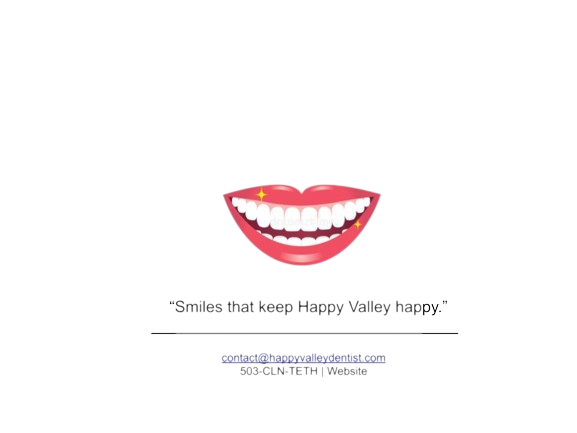
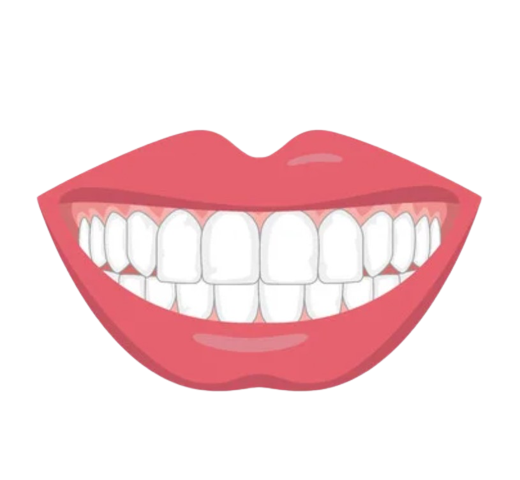
Week 6

Changed region(s): [[0.0615, 0.2702, 0.9231, 0.8707]]

diff --git a/chamber/index.html b/chamber/index.html
@@ -13,7 +13,7 @@
 </head>
 <body>
     <header>
-        <img id="logo" src="images/logo3.png" alt="Chamber of Commerce Logo">
+        <img id="logo" src="images/logo3.webp" alt="Chamber of Commerce Logo">
         <nav class="navigation">
             <a class="ham" href="#">&#9776;</a>
             <a href="#">Home</a>
@@ -30,9 +30,14 @@
     </div>
 
     <div id="hero">
-        <img id="welcome" src="images/welcome.jpg" alt="Image of Happy Valley">
+        <img id="welcome" src="images/welcome.jpg" alt="Image of Happy Valley"
+            srcset="images/size/small.jpg 800w, 
+                    images/size/medium.jpg 1000w, 
+                    images/size/Large.jpg 1200w"
+            sizes="(max-width: 800px), (min-width: 800px) and (max-width: 1200px) 800px, 1200px">
         <button id="joinbtn">Join the Chamber</button>
     </div>
+    
 
     <div id="event">
         <h4>Grand Opening</br>Backyard Bird Shop</p></h4>
@@ -41,7 +46,10 @@
 
     <div id="weather">
         <p>Weather</p>
-        <img id="weatherlogo" src="images/weatherr.png" alt="Weather">
+        <h3 class="temp"><span class='t'>35</span>&#176;F</h3>
+        <img id="weatherlogo" src="images/weather.png" alt="Weather">
+        <p>Wind speed: <span class="ws">10</span>mph</p>
+        <p>Wind chill: <span id="wc"></span></p>
     </div>
 
     <div id="news-release">
@@ -53,6 +61,8 @@
         <div id="spotlight1">
             <p>Spotlight 1</p>
             <img id="teeth" src="images/cleanteeth.png" alt="Happy Valley Dentist">
+            <p>"Smiles that keep Happy Valley Happy"</p>
+            <p>contact@happyvallysmiles.com | 503-123-1234</p>
         </div>
         <div id="spotlight2">
             <p>Spotlight2</p>
@@ -74,7 +84,7 @@
 
     <footer>
         <div class="footer-left">
-          <img id="footerlogo" src="images/logo3.png" alt="Happy Valley Commerce Logo" width="250px">
+          <img id="footerlogo" src="images/logo3.webp" alt="Happy Valley Commerce Logo" width="250px">
           <h4>Happy Valley Chamber of Commere <br>1234 SE 123 Ave <br>Happy Valley, OR 97015</h4>
         </div>
         <div class="footer-right">

diff --git a/chamber/chamber.css b/chamber/chamber.css
@@ -1,12 +1,18 @@
 /* Hamburger menu or responsive menu */
+
+a:hover {
+    background-color: #687482;
+}
 #welcome {
     width: 100%;
     max-height: 250px;
+    content: url(images/size/small.jpg)
 }
 
 #weatherlogo {
-    margin-top: -130px;
-    margin-left: 30px;
+    margin-left:100px;
+    margin-top: -50px;
+    width:150px;
 }
 
 #joinbtn {
@@ -25,10 +31,10 @@
 }
 
 #teeth {
-    margin-top:-150px;
+    margin-top: -50px;
     float:center;
-    margin-left:50px;
-    max-width: 400px;
+    margin-left:120px;
+    max-width: 150px;
 }
 
 #chinese {
@@ -239,6 +245,11 @@ div {
         grid-row: 2/3;
         grid-column: 1 /6;
     }
+
+    #welcome {
+        content:url(images/size/medium.jpg)
+    }
+
       
 
     
@@ -337,6 +348,7 @@ div {
     #welcome {
         width: 100%;
         min-height: 540px;
+        content: url(images/size/Large.jpg)
     }
 
     #joinbtn {

diff --git a/lesson6/index.html b/lesson6/index.html
@@ -1,0 +1,24 @@
+<!DOCTYPE html>
+<html lang="en">
+<head>
+    <meta charset="UTF-8">
+    <meta http-equiv="X-UA-Compatible" content="IE=edge">
+    <meta name="viewport" content="width=device-width, initial-scale=1.0">
+    <title>Document</title>
+</head>
+<body>
+    <div class="parts" id="weather">
+        <h3>Weather</h3>
+        <div id="w-box">
+            <img class="icon">
+            <h3 class="temp"><span class='t'>20</span>&#176;F</h3>
+        </div>
+        <p class="desc">Partly Cloudy</p>
+        <hr>
+        <p>Wind Speed: <span class="ws">5</span>mph</p>
+        <p>Wind Chill: <span id="wc"></span></p>
+    </div>
+
+</body>
+<script src="practice6.js"></script>
+</html>

diff --git a/chamber/chamber.js b/chamber/chamber.js
@@ -32,3 +32,14 @@ if (realDayofWeek === 1 || realDayofWeek === 2) {
 } else {
     banner.style.display = "none";
 }
+
+const temp = parseInt(document.querySelector('.t').textContent);
+const windspeed = parseInt(document.querySelector('.ws').textContent);
+
+const chill = Math.round((35.74 + (0.6215 * temp))-(35.75 * Math.pow(windspeed,0.16)) + (0.4275*temp*Math.pow(windspeed,0.16)));
+
+if (temp <= 50 && windspeed >= 3) {
+    document.getElementById('wc').textContent = chill + '°F';
+} else {
+    document.getElementById('wc').textContent = "N/A";
+}

diff --git a/practice/week4practice.html b/practice/week4practice.html
@@ -8,7 +8,7 @@
     <link href="week4practice.css" rel="stylesheet">
 </head>
 <body>
-    <header>
+    <!-- <header>
         <nav class="navigation">
             <a class="ham" href="#">&#9776;</a>
             <a href="#">Home</a>
@@ -17,7 +17,7 @@
             <a href="#">Page 3</a>
             <a href="#">Page 4</a>
         </nav>
-    </header>
+    </header> -->
 
     <main class="grid-container">
         <button class="btn" type="button">Click me!</button>

diff --git a/lesson6/practice6.js b/lesson6/practice6.js
@@ -1,0 +1,8 @@
+const temp = parseInt(document.querySelector('.t').textContent);
+const windspeed = parseInt(document.querySelector('.ws').textContent);
+
+const chill = Math.round((35.74 + (0.6215 * temp))-(35.75 * Math.pow(windspeed,0.16)) + (0.4275*temp*Math.pow(windspeed,0.16)));
+
+if (temp <= 50 && windspeed >= 3) {
+    document.getElementById('wc').textContent = chill + '°F';
+}

diff --git a/practice/week4practice.js b/practice/week4practice.js
@@ -1,3 +1,4 @@
+//Button JS
 const button = document.querySelector('.btn');
 
 function show() {
@@ -7,7 +8,13 @@ function show() {
 button.addEventListener('click', show);
 
 
-//Hamburger Button JS
+
+
+
+
+
+
+//Hamburger Menu JS
 
 const mainnav = document.querySelector('.navigation');
 const hambuton = document.querySelector('.ham');
